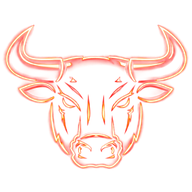
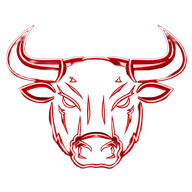
m

Changed region(s): [[0.0, 0.125, 1.0, 0.9062]]

diff --git a/src/components/LiquidHero.tsx b/src/components/LiquidHero.tsx
@@ -133,11 +133,11 @@ export const LiquidHero = () => {
                         <div
                             className="hero-logo-mask absolute inset-0 bg-[var(--color-blood)] z-10"
                             style={{
-                                WebkitMaskImage: 'url(/logo.png)',
+                                WebkitMaskImage: 'url(/logo.webp)',
                                 WebkitMaskSize: 'contain',
                                 WebkitMaskRepeat: 'no-repeat',
                                 WebkitMaskPosition: 'center',
-                                maskImage: 'url(/logo.png)',
+                                maskImage: 'url(/logo.webp)',
                                 maskSize: 'contain',
                                 maskRepeat: 'no-repeat',
                                 maskPosition: 'center'
@@ -145,7 +145,7 @@ export const LiquidHero = () => {
                         />
                         {/* Imagen estructural base */}
                         <img
-                            src="/logo.png"
+                            src="/logo.webp"
                             alt="Wagyu Bites Logo"
                             className="w-full h-full object-contain opacity-0"
                         />

diff --git a/index.html b/index.html
@@ -9,8 +9,8 @@
   <meta name="description" content="Templo de la proteína. Alta costura aplicada a la carnicería premium." />
 
   <!-- PWA Meta Tags -->
-  <link rel="icon" type="image/png" href="/logo.png" />
-  <link rel="apple-touch-icon" href="/logo.png" />
+  <link rel="icon" type="image/png" href="/logo.webp" />
+  <link rel="apple-touch-icon" href="/logo.webp" />
   <meta name="theme-color" content="#080808" />
   <meta name="apple-mobile-web-app-capable" content="yes" />
   <meta name="apple-mobile-web-app-status-bar-style" content="black-translucent" />

diff --git a/vite.config.ts b/vite.config.ts
@@ -11,7 +11,7 @@ export default defineConfig({
     tailwindcss(),
     VitePWA({
       registerType: 'autoUpdate',
-      includeAssets: ['logo.png', 'pwa-icons/icon-192x192.png', 'pwa-icons/icon-512x512.png', 'pwa-icons/favicon.ico'],
+      includeAssets: ['logo.webp', 'pwa-icons/icon-192x192.png', 'pwa-icons/icon-512x512.png', 'pwa-icons/favicon.ico'],
       manifest: {
         name: 'Wagyu Bites Premium',
         short_name: 'Wagyu',
